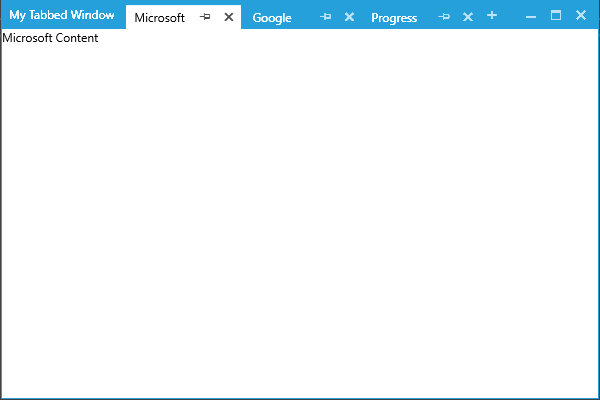
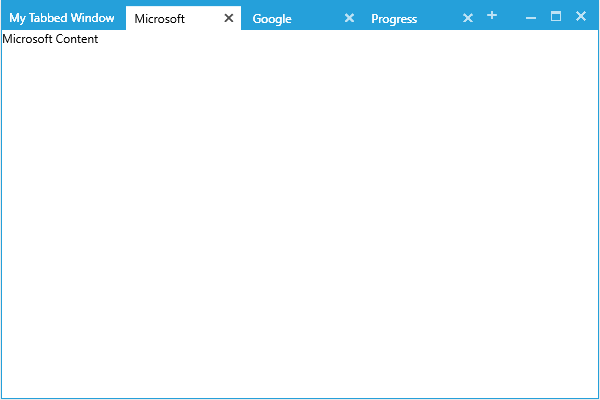
Update articles with pinning functionality

diff --git a/controls/radtabbedwindow/key-properties.md b/controls/radtabbedwindow/key-properties.md
@@ -82,9 +82,9 @@ Through the ItemWidth and ItemMinWidth, you can control the default **Width** an
     tabbedWindow.ItemMinWidth = 80
 {{endregion}}
 
-## PinnedItems
+## Pinned Items
 
-The control also exposes a **PinnedItems** property of type **ReadOnlyObservableCollection<RadTabItem>**. You can use it to get ahold of all the pinned tabs.
+The control also exposes a **PinnedItems** property of type **ReadOnlyObservableCollection<RadTabItem>**. You can use it to get ahold of all the pinned tabs. To enable the pinning functionality, you should set the **PinButtonVisibility** of the tab items to **Visible** via the **ItemContainerStyle** property of the window as shown in [this article]({%slug radtabbedwindow-styles-and-templates%}#itemcontainerstyle).
 
 ## DragDropMode
 

diff --git a/controls/radtabbedwindow/styles-and-templates.md b/controls/radtabbedwindow/styles-and-templates.md
@@ -41,6 +41,8 @@ You can use the **ItemContainerStyle** property to style the individual RadTabIt
             <Setter Property="MinHeight" Value="40" />
             <Setter Property="Background" Value="Red" />
             <Setter Property="FontWeight" Value="Bold" />
+            <Setter Property="PinButtonVisibility" Value="Visible" />
+		    <Setter Property="CloseButtonVisibility" Value="Visible"/>
         </Style>
     </telerik:RadTabbedWindow.ItemContainerStyle>
 {{endregion}}
